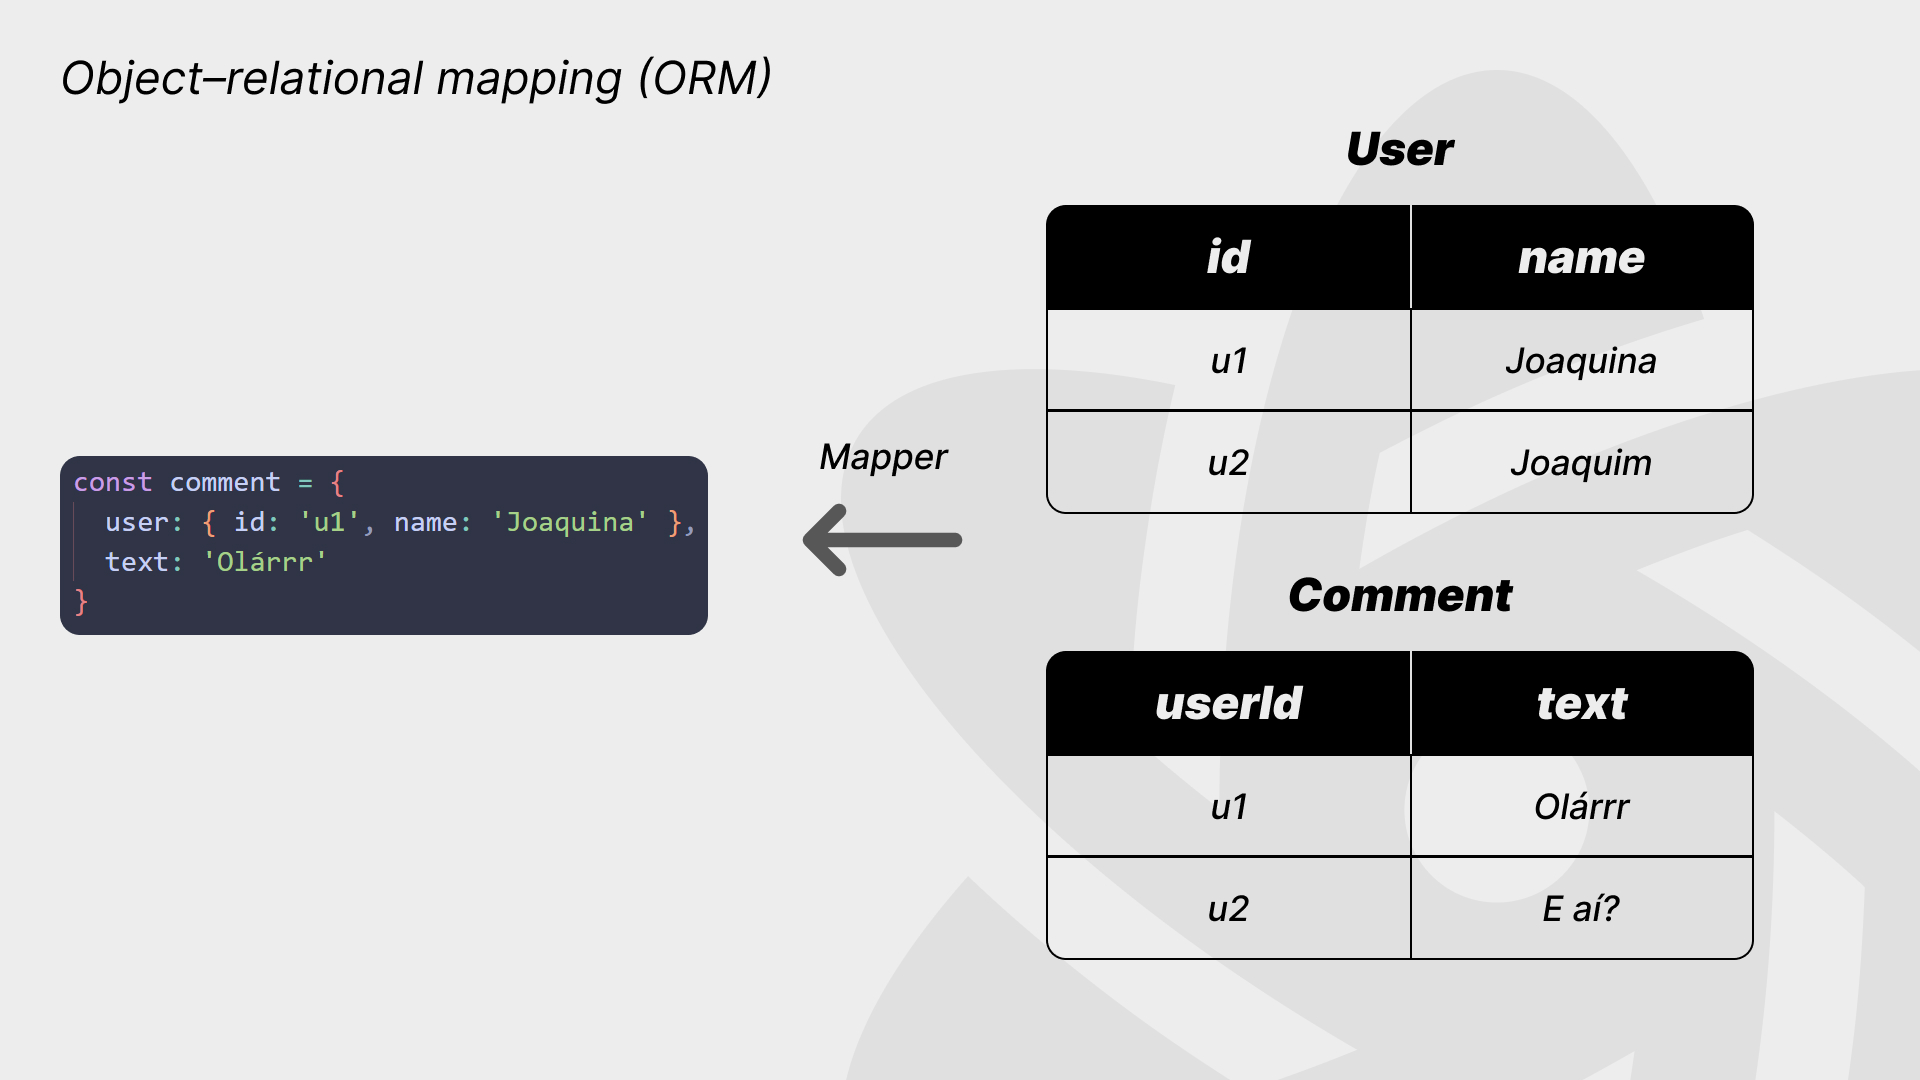
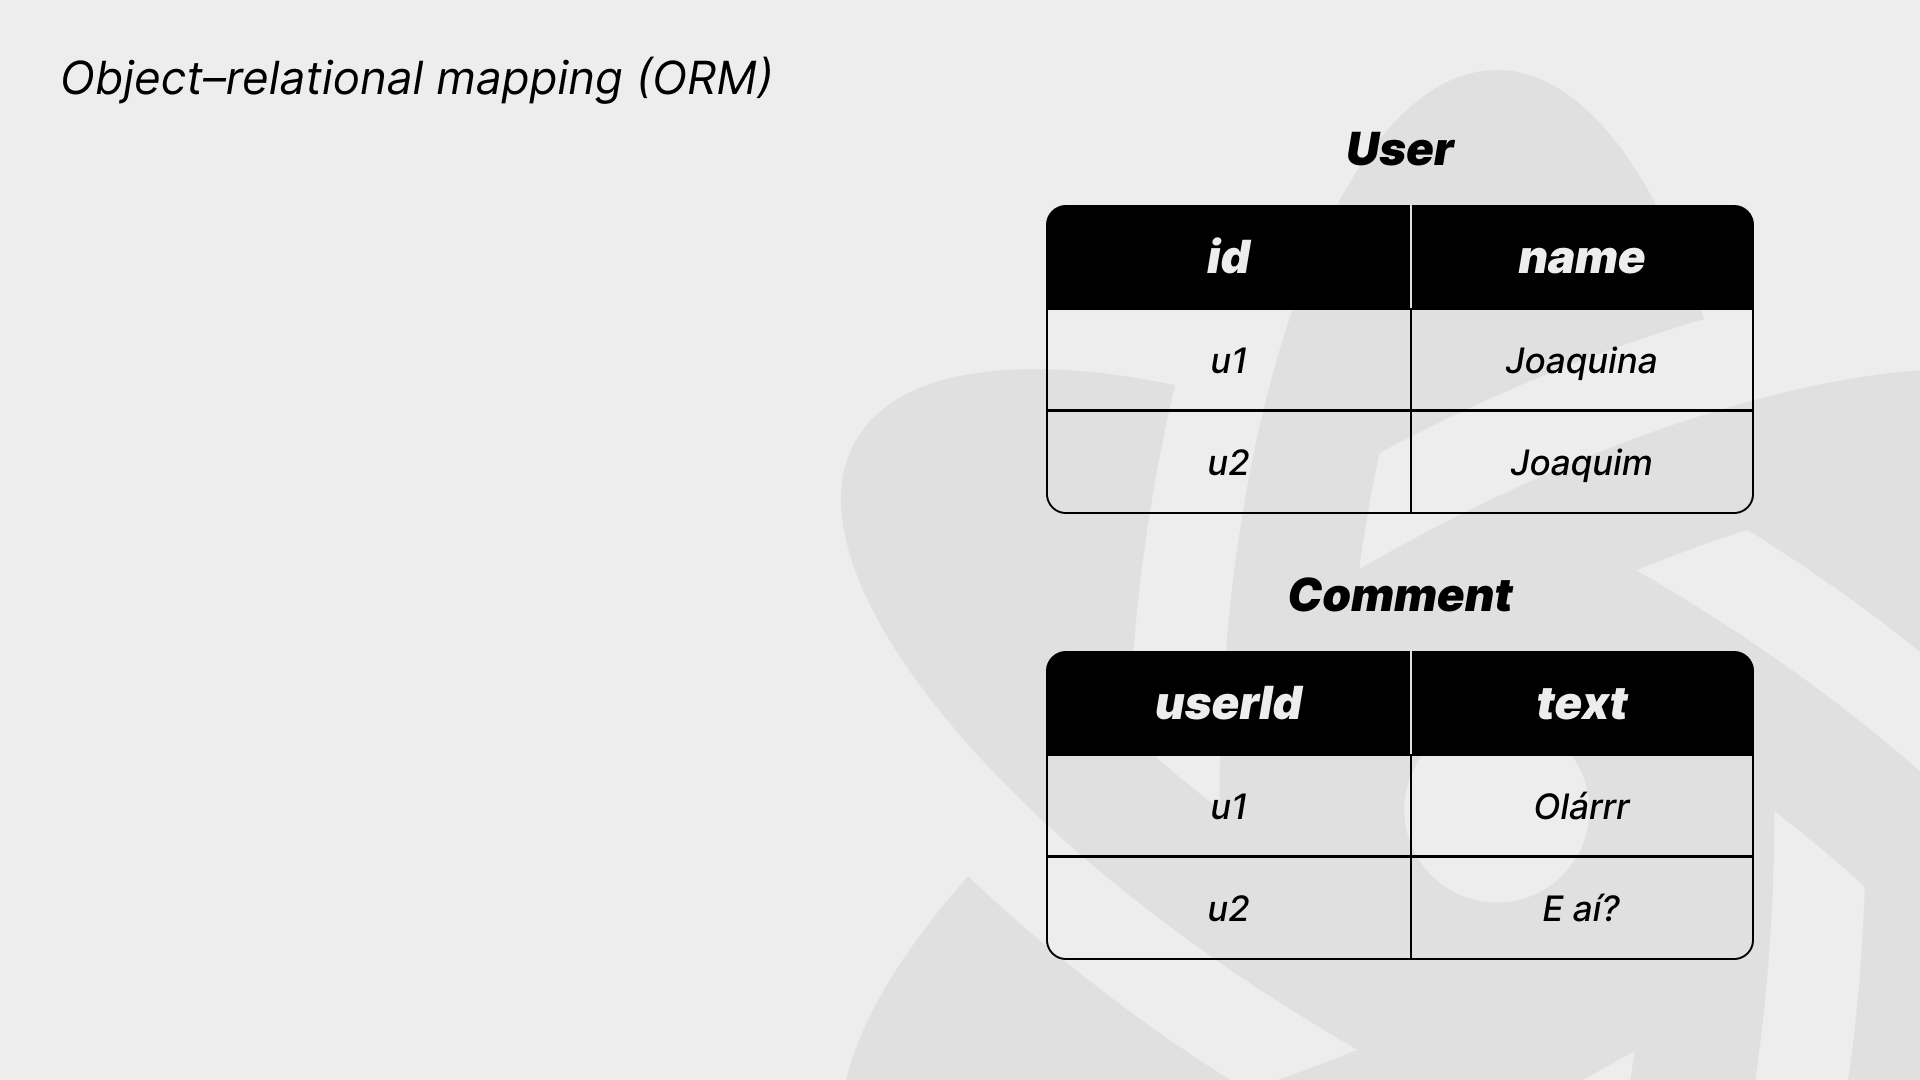
✅ Add more slides for lesson 34

Changed region(s): [[0.0312, 0.3972, 0.375, 0.6111], [0.4062, 0.4583, 0.5, 0.5194], [0.4375, 0.3972, 0.5, 0.4583]]

diff --git a/references.md b/references.md
@@ -2199,4 +2199,4 @@ export { getReviewSlugs }
 
 ## 34. 🚧 Título em construção
 
-- [ORM](assets/lessons/bonus-next-js/34/01-orm.jpg)
+- [Slides](assets/lessons/bonus-next-js/34/)
